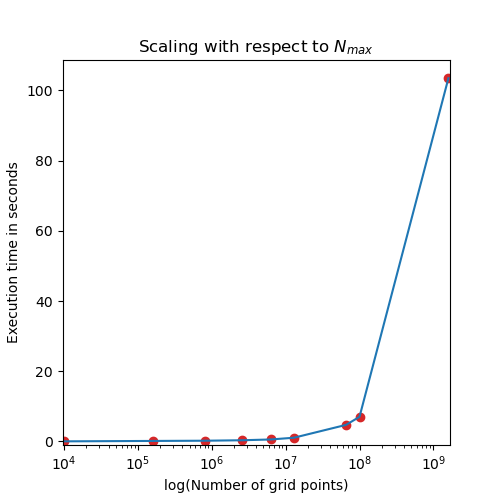
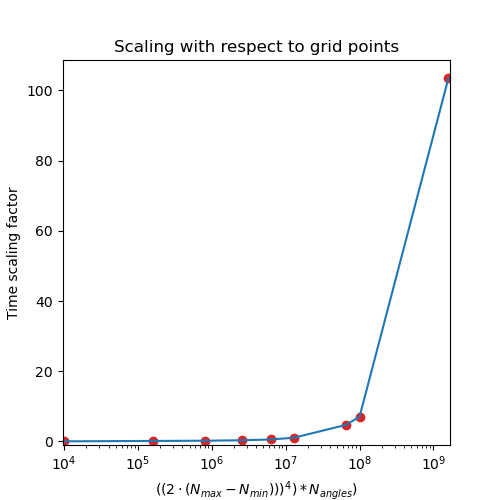
disabling spglib search because it leads to weird linking error, building from scratch by default

Changed region(s): [[0.24, 0.06, 0.81, 0.12], [0.3, 0.96, 0.72, 1.0], [0.0, 0.33, 0.06, 0.69]]

diff --git a/tests/example.py b/tests/example.py
@@ -1,15 +1,21 @@
+import ase.io
+from pathlib import Path
+
+from hetbuilder import PROJECT_ROOT_DIR
 from hetbuilder.algorithm import CoincidenceAlgorithm
 from hetbuilder.plotting import InteractivePlot
+from hetbuilder.log import set_verbosity_level
 
-# we read in the structure files via the ASE
-import ase.io
-bottom = ase.io.read("graphene.xyz")
-top = ase.io.read("MoS2_2H_1l.xyz")
+import numpy as np
 
-# we set up the algorithm class
-alg = CoincidenceAlgorithm(bottom, top)
-# we run the algorithm for a choice of parameters
-results = alg.run(Nmax = 12, Nmin = 0, angles = [0, 10, 15, 20, 25, 30], tolerance = 0.2, weight= 0.5)
+import time
+import os
 
-iplot = InteractivePlot(bottom=bottom, top=top, results=results, weight=0.5)
-iplot.plot_results()
+# # we set up the algorithm class
+# alg = CoincidenceAlgorithm(bottom, top)
+# # we run the algorithm for a choice of parameters
+# results = alg.run(Nmax = 12, Nmin = 0, angles = [0, 10, 15, 20, 25, 30], tolerance = 0.2, weight= 0.5)
+
+# iplot = InteractivePlot(bottom=bottom, top=top, results=results, weight=0.5)
+# iplot.plot_results()
+

diff --git a/tests/performance_plot.py b/tests/performance_plot.py
@@ -26,6 +26,8 @@ ncombs = [
     1600000000,
 ]
 
+scaling = [k / timings[0] for k in timings]
+
 fig, axes = plt.subplots(1, 1, figsize=(5, 5))
 axes.scatter(ncombs, timings, color="tab:red")
 axes.plot(ncombs, timings, color="tab:blue")
@@ -33,8 +35,8 @@ axes.plot(ncombs, timings, color="tab:blue")
 axes.set_xlim(min(ncombs) * 0.95, max(ncombs) * 1.05)
 axes.set_ylim(-1, max(timings) * 1.05)
 axes.set_xscale("log")
-axes.set_xlabel("log(Number of grid points)")
-axes.set_ylabel("Execution time in seconds")
-axes.set_title("Scaling with respect to $N_{max}$")
+axes.set_xlabel(r"$((2 \cdot (N_{max} - N_{min})))^4) * N_{angles})$")
+axes.set_ylabel("Time scaling factor")
+axes.set_title("Scaling with respect to grid points")
 
 plt.show()

diff --git a/tests/test_performance.py b/tests/test_performance.py
@@ -10,7 +10,7 @@ import numpy as np
 import time
 
 
-def test_performance():
+def test_scaling_performance():
     bottom = ase.io.read(PROJECT_ROOT_DIR.joinpath("../tests/MoS2_2H_1l.xyz"))
     top = ase.io.read(PROJECT_ROOT_DIR.joinpath("../tests/WS2_2H_1l.xyz"))
     alg = CoincidenceAlgorithm(bottom, top)

diff --git a/hetbuilder/__init__.py b/hetbuilder/__init__.py
@@ -7,7 +7,7 @@ from pathlib import Path
 if sys.version_info[0] == 2:
     raise ImportError("Requires Python3. This is Python2.")
 
-__version__ = "0.6.8"
+__version__ = "0.6.9"
 
 PROJECT_ROOT_DIR = Path(__file__).absolute().parent
 

diff --git a/docs/cli.md b/docs/cli.md
@@ -65,3 +65,13 @@ Changing the weight factor $w$ only affects the final coincidence supercells, no
 ```bash
 hetbuilder build a.xyz b.xyz -w 0
 ```
+
+## The `match` utility
+
+The `match` utility only looks for the smallest stress result from the algorithm and writes it to a file.
+
+```bash
+hetbuilder match --help
+```
+
+The syntax is similar to the `build` utility. The algorithm is executed automatically for different tolerance values.

diff --git a/docs/intro.md b/docs/intro.md
@@ -55,7 +55,7 @@ The installation exposes a multi-level [typer](https://github.com/tiangolo/typer
 hetbuilder --help
 ```
 
-The `build` utility is fully implemented.
+The `build` utility exposes the results interactively via a matplotlib GUI.
 You can use any ASE-readable structure format to specify the lower and upper layer. They should be recognizable as two-dimensional, e.g., by having a zero vector in the *z*-direction.
 
 ```bash
